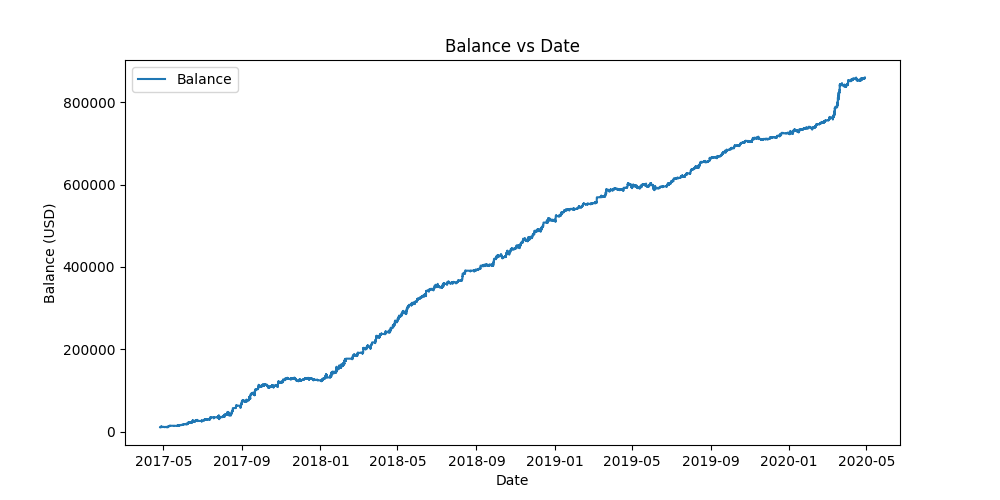
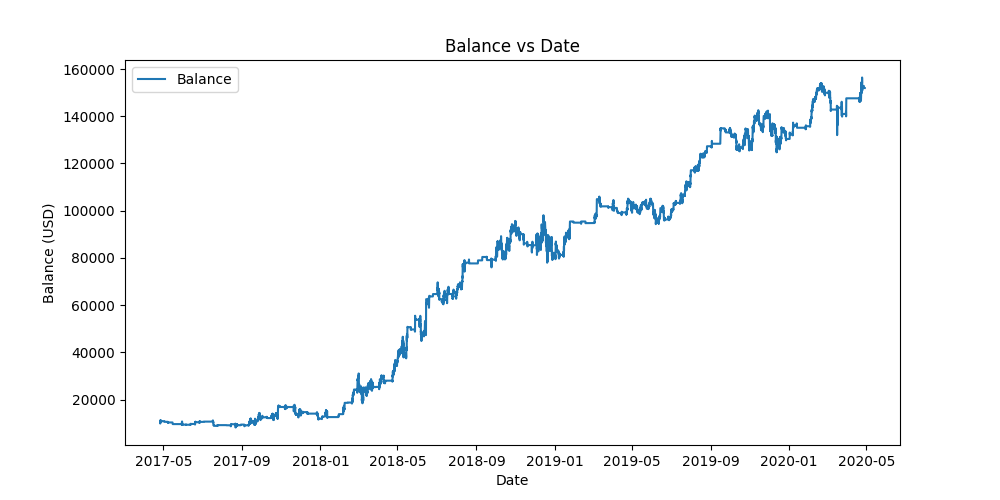
Noise sensitivity with 4h predictions: high-freq vs low-freq (PDT) results
162 experiments (81 per mode), 9×9 noise grid, 1h bars with 4h prediction refresh.
Key findings:
- High freq: .83M perfect → 66K at max noise (76% → 52% win)
- Low freq (PDT): 45K perfect → 42K at max noise (67% → 52% win)
- PDT limit acts as quality filter: more stable win rate under noise
- Hourly noise kills low-freq profit steeply (early exit is critical)
- All configs stay profitable even at σ=0.01 noise

diff --git a/examples/scripts/plot_dual_freq_sensitivity.py b/examples/scripts/plot_dual_freq_sensitivity.py
@@ -1,0 +1,116 @@
+#!/usr/bin/env python3
+"""Plot noise sensitivity results for high-freq vs low-freq trading with 4h predictions."""
+import sqlite3
+import numpy as np
+import pandas as pd
+import matplotlib.pyplot as plt
+from pathlib import Path
+
+DB = Path(__file__).parent.parent / "results/noise_sensitivity_4h/noise_sensitivity_4h_olap.db"
+OUT = Path(__file__).parent.parent / "results/noise_sensitivity_4h/plots"
+OUT.mkdir(parents=True, exist_ok=True)
+
+conn = sqlite3.connect(DB)
+
+# ============================================================
+# PLOT 1: Profit heatmaps side by side (high vs low freq)
+# ============================================================
+fig, axes = plt.subplots(1, 2, figsize=(16, 6))
+for idx, (mode, title) in enumerate([("high_freq", "High Frequency (20 trades/5d)"),
+                                       ("low_freq", "Low Frequency (3 trades/5d - PDT)")]):
+    df = pd.read_sql(f"SELECT * FROM experiments WHERE freq_mode='{mode}'", conn)
+    pivot = df.pivot(index='hourly_noise', columns='daily_noise', values='profit')
+    noise = sorted(df['hourly_noise'].unique())
+    
+    # Log scale for better visualization of large range
+    log_vals = np.log10(pivot.values.clip(min=1))
+    im = axes[idx].imshow(pivot.values, cmap='RdYlGn', aspect='auto')
+    axes[idx].set_xticks(range(len(noise)))
+    axes[idx].set_xticklabels([f"{x:.3f}" for x in noise], rotation=45, fontsize=7)
+    axes[idx].set_yticks(range(len(noise)))
+    axes[idx].set_yticklabels([f"{x:.3f}" for x in noise], fontsize=7)
+    axes[idx].set_xlabel("Daily Noise σ", fontsize=10)
+    axes[idx].set_ylabel("Hourly Noise σ", fontsize=10)
+    axes[idx].set_title(title, fontsize=11, fontweight='bold')
+    for i in range(len(noise)):
+        for j in range(len(noise)):
+            val = pivot.values[i, j]
+            txt = f"${val/1000:.0f}K" if val >= 1000 else f"${val:.0f}"
+            color = 'white' if val < pivot.values.mean()*0.5 else 'black'
+            axes[idx].text(j, i, txt, ha='center', va='center', fontsize=6, color=color)
+    plt.colorbar(im, ax=axes[idx], shrink=0.8)
+
+fig.suptitle("Trading Profit: High vs Low Frequency (4h predictions on 1h bars)", fontsize=13, fontweight='bold', y=1.02)
+plt.tight_layout()
+plt.savefig(OUT / "profit_heatmaps_dual_freq.png", dpi=150, bbox_inches='tight')
+print(f"Saved: profit_heatmaps_dual_freq.png")
+
+# ============================================================
+# PLOT 2: Marginal comparison (high vs low)
+# ============================================================
+fig, axes = plt.subplots(2, 2, figsize=(14, 10))
+
+for i, (mode, label, color) in enumerate([("high_freq", "High Freq", "blue"), ("low_freq", "Low Freq (PDT)", "red")]):
+    dm = pd.read_sql(f"SELECT * FROM v_{mode}_daily_marginal", conn)
+    hm = pd.read_sql(f"SELECT * FROM v_{mode}_hourly_marginal", conn)
+    
+    # Profit - daily marginal
+    axes[0,0].plot(dm['daily_noise'], dm['avg_profit']/1000, f'{color[0]}o-', linewidth=2, markersize=6, label=label)
+    # Profit - hourly marginal
+    axes[0,1].plot(hm['hourly_noise'], hm['avg_profit']/1000, f'{color[0]}s-', linewidth=2, markersize=6, label=label)
+    # Win rate - daily
+    axes[1,0].plot(dm['daily_noise'], dm['avg_win'], f'{color[0]}o-', linewidth=2, markersize=6, label=label)
+    # Win rate - hourly
+    axes[1,1].plot(hm['hourly_noise'], hm['avg_win'], f'{color[0]}s-', linewidth=2, markersize=6, label=label)
+
+axes[0,0].set_title("Daily Noise → Profit", fontweight='bold')
+axes[0,0].set_ylabel("Avg Profit ($K)")
+axes[0,1].set_title("Hourly Noise → Profit", fontweight='bold')
+axes[1,0].set_title("Daily Noise → Win Rate", fontweight='bold')
+axes[1,0].set_ylabel("Win Rate (%)")
+axes[1,1].set_title("Hourly Noise → Win Rate", fontweight='bold')
+
+for ax in axes.flat:
+    ax.set_xlabel("Gaussian Noise σ")
+    ax.legend(fontsize=8)
+    ax.grid(True, alpha=0.3)
+
+axes[1,0].axhline(y=50, color='gray', linestyle='--', alpha=0.5)
+axes[1,1].axhline(y=50, color='gray', linestyle='--', alpha=0.5)
+
+fig.suptitle("High vs Low Frequency: Noise Sensitivity (4h predictions, 1h bars)", fontsize=13, fontweight='bold')
+plt.tight_layout()
+plt.savefig(OUT / "marginal_dual_freq.png", dpi=150, bbox_inches='tight')
+print(f"Saved: marginal_dual_freq.png")
+
+# ============================================================
+# PLOT 3: Win rate heatmaps
+# ============================================================
+fig, axes = plt.subplots(1, 2, figsize=(16, 6))
+for idx, (mode, title) in enumerate([("high_freq", "High Frequency"), ("low_freq", "Low Frequency (PDT)")]):
+    df = pd.read_sql(f"SELECT * FROM experiments WHERE freq_mode='{mode}'", conn)
+    pivot = df.pivot(index='hourly_noise', columns='daily_noise', values='win_pct')
+    noise = sorted(df['hourly_noise'].unique())
+    
+    im = axes[idx].imshow(pivot.values, cmap='RdYlGn', aspect='auto', vmin=40, vmax=80)
+    axes[idx].set_xticks(range(len(noise)))
+    axes[idx].set_xticklabels([f"{x:.3f}" for x in noise], rotation=45, fontsize=7)
+    axes[idx].set_yticks(range(len(noise)))
+    axes[idx].set_yticklabels([f"{x:.3f}" for x in noise], fontsize=7)
+    axes[idx].set_xlabel("Daily Noise σ", fontsize=10)
+    axes[idx].set_ylabel("Hourly Noise σ", fontsize=10)
+    axes[idx].set_title(title, fontsize=11, fontweight='bold')
+    for i in range(len(noise)):
+        for j in range(len(noise)):
+            val = pivot.values[i, j]
+            color = 'white' if val < 50 else 'black'
+            axes[idx].text(j, i, f"{val:.0f}%", ha='center', va='center', fontsize=6, color=color)
+    plt.colorbar(im, ax=axes[idx], shrink=0.8)
+
+fig.suptitle("Win Rate: High vs Low Frequency (4h predictions)", fontsize=13, fontweight='bold', y=1.02)
+plt.tight_layout()
+plt.savefig(OUT / "winrate_heatmaps_dual_freq.png", dpi=150, bbox_inches='tight')
+print(f"Saved: winrate_heatmaps_dual_freq.png")
+
+conn.close()
+print(f"\nAll plots saved to: {OUT}")
